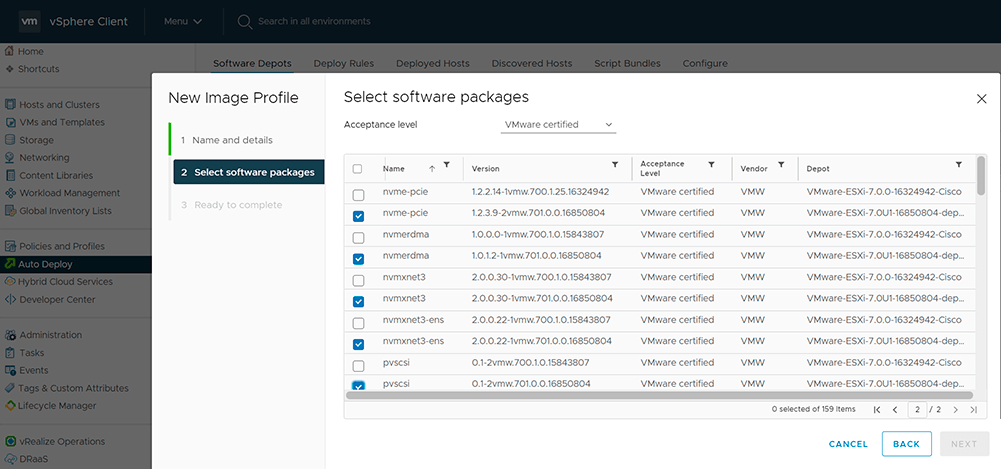
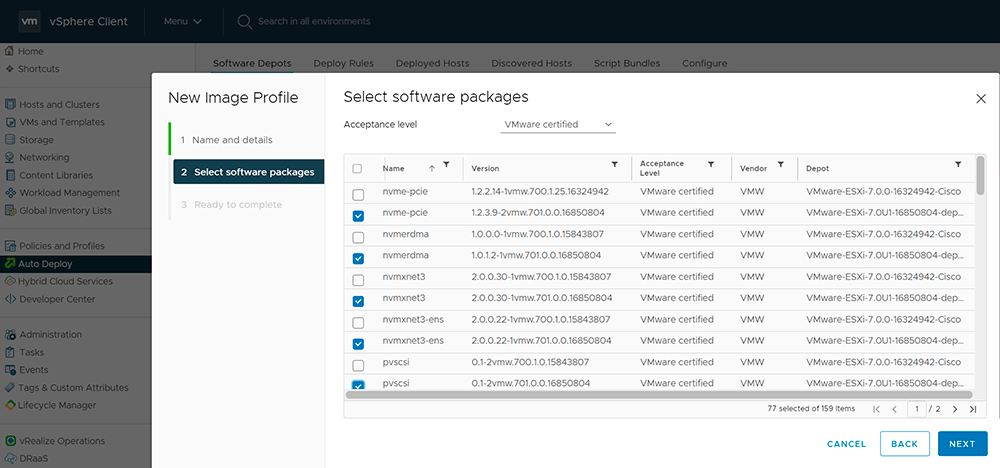
Added remaining images

diff --git a/content/en/devops/articles/how-to-create-custom-esxi-image.html b/content/en/devops/articles/how-to-create-custom-esxi-image.html
@@ -74,12 +74,12 @@ affiliate:
 			<li id="import-vendor-customized-image" itemprop="step" itemscope itemtype="http://schema.org/HowToStep">
 				<meta itemprop="url" content="https://sypalo.com/how-to-create-custom-esxi-image#import-vendor-customized-image">
 				<meta itemprop="name" content="Import vendor-customized image">
-				<meta itemprop="image" content="https://sypalo.com/assets/img/articles/how-to-create-custom-esxi-image/import-vendor-customized-image2.png">
+				<meta itemprop="image" content="https://sypalo.com/assets/img/articles/how-to-create-custom-esxi-image/import-vendor-customized-image.png">
 				<figure class="figure mx-auto d-block">
 					<figcaption class="mb-2" itemprop="text">
 						Go to your vCenter's AutoDeploy menu sectoin, click Import link on the top right, locate vendor-customized image and provide a name (I used same as filename)
 					</figcaption>
-					<img class="img-fluid mx-auto d-block" src="/assets/img/articles/how-to-create-custom-esxi-image/import-vendor-customized-image2.png" alt="Import vendor-customized image" />
+					<img class="img-fluid mx-auto d-block" src="/assets/img/articles/how-to-create-custom-esxi-image/import-vendor-customized-image.png" alt="Import vendor-customized image" />
 				</figure>
 			</li>
 			<li id="import-remaining-vibs" itemprop="step" itemscope itemtype="http://schema.org/HowToStep">
@@ -125,6 +125,17 @@ affiliate:
 						Select only latest packages as by default wizard shows you a list with all available vibs from all depots
 					</figcaption>
 					<img class="img-fluid mx-auto d-block" src="/assets/img/articles/how-to-create-custom-esxi-image/select-software-packages.png" alt="Add new image profile" />
+				</figure>
+			</li>
+			<li id="custom-esxi-image-created" itemprop="step" itemscope itemtype="http://schema.org/HowToStep">
+				<meta itemprop="url" content="https://sypalo.com/how-to-create-custom-esxi-image#custom-esxi-image-created">
+				<meta itemprop="name" content="Сustom ESXi image created">
+				<meta itemprop="image" content="https://sypalo.com/assets/img/articles/how-to-create-custom-esxi-image/custom-esxi-image-created.png">
+				<figure class="figure mx-auto d-block">
+					<figcaption class="mb-2" itemprop="text">
+						Custom ESXi image has been created and now you can use it in AutoDeploy or export to zip or ISO by clicking Export button
+					</figcaption>
+					<img class="img-fluid mx-auto d-block" src="/assets/img/articles/how-to-create-custom-esxi-image/custom-esxi-image-created.png" alt="Add new image profile" />
 				</figure>
 			</li>
 		</ol>
